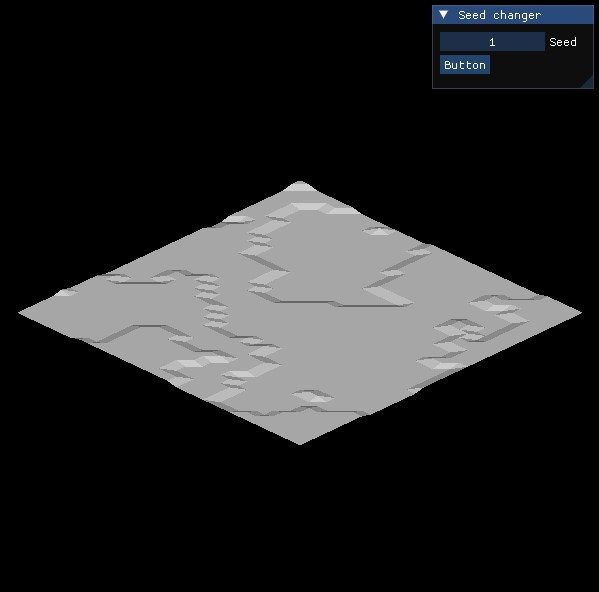
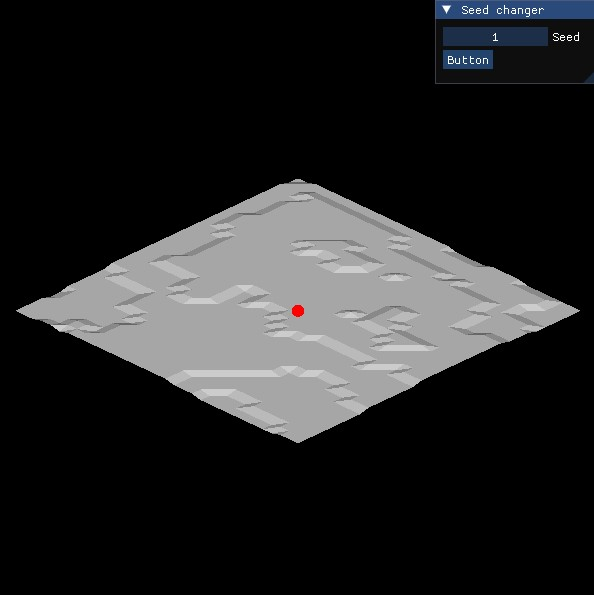
Add a stupid sphere that is good for debugging but I will remove in the future >:( shows that this program dynamic and allows changes

Changed region(s): [[0.0303, 0.3041, 0.9697, 0.7601], [0.697, 0.0, 1.0, 0.152], [0.3939, 0.3953, 0.5758, 0.5777]]

diff --git a/Sphere.cpp b/Sphere.cpp
@@ -1,0 +1,135 @@
+#include "Sphere.h"
+
+void Sphere::CompileShaders()
+{
+    ShaderProgram = glCreateProgram();
+    if (ShaderProgram == 0) {
+        fprintf(stderr, "Error creating shader program\n");
+        exit(1);
+    }
+
+    std::string vs, fs;
+
+    if (!ReadFile(pVSFileName, vs)) {
+        exit(1);
+    }
+    AddShader(ShaderProgram, vs.c_str(), GL_VERTEX_SHADER);
+
+    if (!ReadFile(pFSFileName, fs)) {
+        exit(1);
+    }
+    AddShader(ShaderProgram, fs.c_str(), GL_FRAGMENT_SHADER);
+
+    GLint Success = 0;
+    GLchar ErrorLog[1024] = { 0 };
+
+    glLinkProgram(ShaderProgram);
+
+    // Uniforms
+    uProjViewLocation = glGetUniformLocation(ShaderProgram, "uProjView");
+    if (uProjViewLocation == -1) {
+        printf("Error getting uniform location of 'uProjView'\n");
+        exit(1);
+    }
+
+    glGetProgramiv(ShaderProgram, GL_LINK_STATUS, &Success);
+    if (Success == 0) {
+        glGetProgramInfoLog(ShaderProgram, sizeof(ErrorLog), NULL, ErrorLog);
+        fprintf(stderr, "Error linking shader program: '%s'\n", ErrorLog);
+        exit(1);
+    }
+
+    glUseProgram(ShaderProgram);
+}
+
+// Chatgpt makes spheres
+void Sphere::GenerateSphere() {
+    float radius = 0.5f;
+    int sectors = 12;
+    int stacks = 12;
+
+    float sectorStep = 2 * M_PI / sectors;
+    float stackStep = M_PI / stacks;
+
+    for (int i = 0; i <= stacks; ++i) {
+        float stackAngle = M_PI / 2 - i * stackStep; // Starting from pi/2 to -pi/2
+        float xy = radius * cosf(stackAngle); // Radius at current stack
+        float z = radius * sinf(stackAngle);  // Height at current stack
+
+        for (int j = 0; j <= sectors; ++j) {
+            float sectorAngle = j * sectorStep; // Current sector angle
+            float x = xy * cosf(sectorAngle); // X position
+            float y = xy * sinf(sectorAngle); // Y position
+            vertices.push_back(glm::vec3(x, y, z));
+        }
+    }
+
+    // Generate indices for the triangles
+    for (int i = 0; i < stacks; ++i) {
+        for (int j = 0; j < sectors; ++j) {
+            int first = (i * (sectors + 1)) + j;
+            int second = first + sectors + 1;
+
+            // First triangle
+            indices.push_back(first);
+            indices.push_back(second);
+            indices.push_back(first + 1);
+
+            // Second triangle
+            indices.push_back(second);
+            indices.push_back(second + 1);
+            indices.push_back(first + 1);
+        }
+    }
+
+    // Offset sphere vertices
+	for (int i = 0; i < vertices.size(); ++i) {
+		vertices[i] += glm::vec3(0.0f, 0.0f, 0.0f);
+	}
+}
+
+void Sphere::GenerateBuffers() {
+    glGenBuffers(1, &VBO);
+    glBindBuffer(GL_ARRAY_BUFFER, VBO);
+    glBufferData(GL_ARRAY_BUFFER, vertices.size() * sizeof(glm::vec3), vertices.data(), GL_STATIC_DRAW);
+
+    glGenBuffers(1, &IBO);
+    glBindBuffer(GL_ELEMENT_ARRAY_BUFFER, IBO);
+    glBufferData(GL_ELEMENT_ARRAY_BUFFER, indices.size() * sizeof(unsigned int), indices.data(), GL_STATIC_DRAW);
+
+    glVertexAttribPointer(0, 3, GL_FLOAT, GL_FALSE, 0, nullptr);
+    glEnableVertexAttribArray(0);
+}
+
+void Sphere::Draw() {
+    glUseProgram(ShaderProgram);
+
+    // Set uniforms
+    glUniformMatrix4fv(uProjViewLocation, 1, GL_FALSE, glm::value_ptr(camera->projView));
+
+    glBindBuffer(GL_ARRAY_BUFFER, VBO);
+    glBindBuffer(GL_ELEMENT_ARRAY_BUFFER, IBO);
+
+	glEnableVertexAttribArray(0);
+	glVertexAttribPointer(0, 3, GL_FLOAT, GL_FALSE, 0, nullptr);
+
+    glDrawElements(GL_TRIANGLES, indices.size(), GL_UNSIGNED_INT, nullptr);
+
+    // Clean up
+    glDisableVertexAttribArray(0);
+}
+
+Sphere::Sphere(Camera* camera)
+{
+    this->camera = camera;
+
+    GenerateSphere();
+    GenerateBuffers();
+	CompileShaders();
+}
+
+Sphere::~Sphere()
+{
+	glDeleteBuffers(1, &VBO);
+	glDeleteProgram(ShaderProgram);
+}

diff --git a/world.cpp b/world.cpp
@@ -84,62 +84,6 @@ void World::GenerateGradients(unsigned int seed) {
 	}
 }
 
-void World::AddShader(GLuint ShaderProgram, const char* pShaderText, GLenum ShaderType)
-{
-	GLuint ShaderObj = glCreateShader(ShaderType);
-
-	if (ShaderObj == 0) {
-		fprintf(stderr, "Error creating shader type %d\n", ShaderType);
-		exit(1);
-	}
-
-	const GLchar* p[1];
-	p[0] = pShaderText;
-
-	GLint Lengths[1];
-	Lengths[0] = (GLint)strlen(pShaderText);
-
-	glShaderSource(ShaderObj, 1, p, Lengths);
-
-	glCompileShader(ShaderObj);
-
-	GLint success;
-	glGetShaderiv(ShaderObj, GL_COMPILE_STATUS, &success);
-
-	if (!success) {
-		GLchar InfoLog[1024];
-		glGetShaderInfoLog(ShaderObj, 1024, NULL, InfoLog);
-		fprintf(stderr, "Error compiling shader type %d: '%s'\n", ShaderType, InfoLog);
-		exit(1);
-	}
-
-	glAttachShader(ShaderProgram, ShaderObj);
-}
-
-bool World::ReadFile(const char* pFileName, std::string& outFile)
-{
-	std::ifstream f(pFileName);
-
-	bool ret = false;
-
-	if (f.is_open()) {
-		std::string line;
-		while (std::getline(f, line)) {
-			outFile.append(line);
-			outFile.append("\n");
-		}
-
-		f.close();
-
-		ret = true;
-	}
-	else {
-		std::cout << "Unable to open file: " << pFileName << std::endl;
-	}
-
-	return ret;
-}
-
 void World::CompileShaders() {
 	ShaderProgram = glCreateProgram();
     if (ShaderProgram == 0) {
@@ -256,6 +200,9 @@ void World::GenerateLand() {
 
 // Main draw function, calls the shader and draws the world
 void World::Draw() {
+	// Use shader program
+	glUseProgram(ShaderProgram);
+
 	// Set uniforms
 	glUniformMatrix4fv(uProjViewLocation, 1, GL_FALSE, glm::value_ptr(camera->projView));
 
@@ -285,7 +232,6 @@ World::World(int width, int height, Camera* camera, unsigned int seed) {
 	this->worldSize.x = width;
 	this->worldSize.y = height;
 	this->camera = camera;
-
 	
 	int maxSize = (height > width) ? height : width;
 	gridSize = glm::vec2(maxSize, maxSize);

diff --git a/utils.cpp b/utils.cpp
@@ -1,0 +1,53 @@
+#include "utils.h"
+
+bool ReadFile(const char* pFileName, std::string& outFile) {
+    std::ifstream f(pFileName);
+
+    bool ret = false;
+
+    if (f.is_open()) {
+        std::string line;
+        while (std::getline(f, line)) {
+            outFile.append(line);
+            outFile.append("\n");
+        }
+
+        f.close();
+        ret = true;
+    }
+    else {
+        std::cout << "Unable to open file: " << pFileName << std::endl;
+    }
+
+    return ret;
+}
+
+void AddShader(GLuint ShaderProgram, const char* pShaderText, GLenum ShaderType) {
+    GLuint ShaderObj = glCreateShader(ShaderType);
+
+    if (ShaderObj == 0) {
+        fprintf(stderr, "Error creating shader type %d\n", ShaderType);
+        exit(1);
+    }
+
+    const GLchar* p[1];
+    p[0] = pShaderText;
+
+    GLint Lengths[1];
+    Lengths[0] = (GLint)strlen(pShaderText);
+
+    glShaderSource(ShaderObj, 1, p, Lengths);
+    glCompileShader(ShaderObj);
+
+    GLint success;
+    glGetShaderiv(ShaderObj, GL_COMPILE_STATUS, &success);
+
+    if (!success) {
+        GLchar InfoLog[1024];
+        glGetShaderInfoLog(ShaderObj, 1024, NULL, InfoLog);
+        fprintf(stderr, "Error compiling shader type %d: '%s'\n", ShaderType, InfoLog);
+        exit(1);
+    }
+
+    glAttachShader(ShaderProgram, ShaderObj);
+}

diff --git a/main.cpp b/main.cpp
@@ -7,6 +7,7 @@
 #include <iostream>
 #include "Camera.h"
 #include "World.h"
+#include "Sphere.h"
 
 void KeyCallback(GLFWwindow* window, int key, int scancode, int action, int mods) {
     if (key == GLFW_KEY_ESCAPE && action == GLFW_PRESS) {
@@ -67,6 +68,7 @@ int main() {
 
     // World, 16x16 grid, pass camera for shaders
     World world(32, 32, &camera, seed);
+    Sphere sphere(&camera);
 
     // Escape key closes window
     glfwSetKeyCallback(window, KeyCallback);
@@ -89,8 +91,8 @@ int main() {
         deltaTime = currentTime - lastTime;
         lastTime = currentTime;
 
-        // Clear screen
-        glClear(GL_COLOR_BUFFER_BIT);
+        // Clear buffers
+        glClear(GL_COLOR_BUFFER_BIT | GL_DEPTH_BUFFER_BIT);
         
         ImGui_ImplOpenGL3_NewFrame();
         ImGui_ImplGlfw_NewFrame();
@@ -99,8 +101,9 @@ int main() {
         // Update camera
         camera.update();
 
-        // Draw world
+        // Draw everything
         world.Draw();
+        sphere.Draw();
 
         ImGui::Begin("Seed changer");
         ImGui::DragInt("Seed", &seed);

diff --git a/world.h b/world.h
@@ -8,12 +8,10 @@
 #include <GL/glew.h>
 #include <GLFW/glfw3.h>
 #include "Camera.h"
+#include "utils.h"
 
 class World {
 private:
-    void AddShader(GLuint ShaderProgram, const char* pShaderText, GLenum ShaderType);
-    bool ReadFile(const char* pFileName, std::string& outFile);
-
     GLuint VBO, normalVBO;
     GLuint ShaderProgram;
     GLuint uProjViewLocation;
@@ -31,14 +29,16 @@ private:
 
     Camera* camera;
 
-public:
-    World(int width, int height, Camera* camera, unsigned int seed);
-    ~World();
     void CompileShaders();
     void GenerateBuffers();
     void GenerateLand();
-    void Draw();
+
     glm::vec2 RandomGradient(int ix, int iy, unsigned int seed);
     void GenerateGradients(unsigned int seed);
+
+public:
+    World(int width, int height, Camera* camera, unsigned int seed);
+    ~World();
+    void Draw();
     void ChangeTerrainSeed(unsigned int seed);
 };

diff --git a/Sphere.h b/Sphere.h
@@ -1,0 +1,37 @@
+#pragma once
+#include <iostream>
+#include <fstream>
+#include <string>
+#include <vector>
+#include <cmath>
+#include <glm/glm.hpp>
+#include <glm/gtc/type_ptr.hpp>
+#include <GL/glew.h>
+#include <GLFW/glfw3.h>
+#include "Camera.h"
+#include "utils.h"
+#define M_PI 3.14159265358979323846
+
+class Sphere
+{
+private:
+	GLuint VBO, IBO;
+	GLuint ShaderProgram;
+	GLuint uProjViewLocation;
+	std::vector<glm::vec3> vertices;
+	std::vector<GLuint> indices;
+
+	const char* pVSFileName = "shaders/sphere.vert";
+	const char* pFSFileName = "shaders/sphere.frag";
+
+	Camera* camera;
+
+	void CompileShaders();
+	void GenerateBuffers();
+	void GenerateSphere();
+
+public:
+	void Draw();
+	Sphere(Camera* camera);
+	~Sphere();	
+};

diff --git a/utils.h b/utils.h
@@ -1,0 +1,10 @@
+#pragma once
+#include <iostream>
+#include <string>
+#include <fstream>
+#include <GL/glew.h>
+#include <GL/gl.h>
+
+bool ReadFile(const char* pFileName, std::string& outFile);
+
+void AddShader(GLuint ShaderProgram, const char* pShaderText, GLenum ShaderType);
